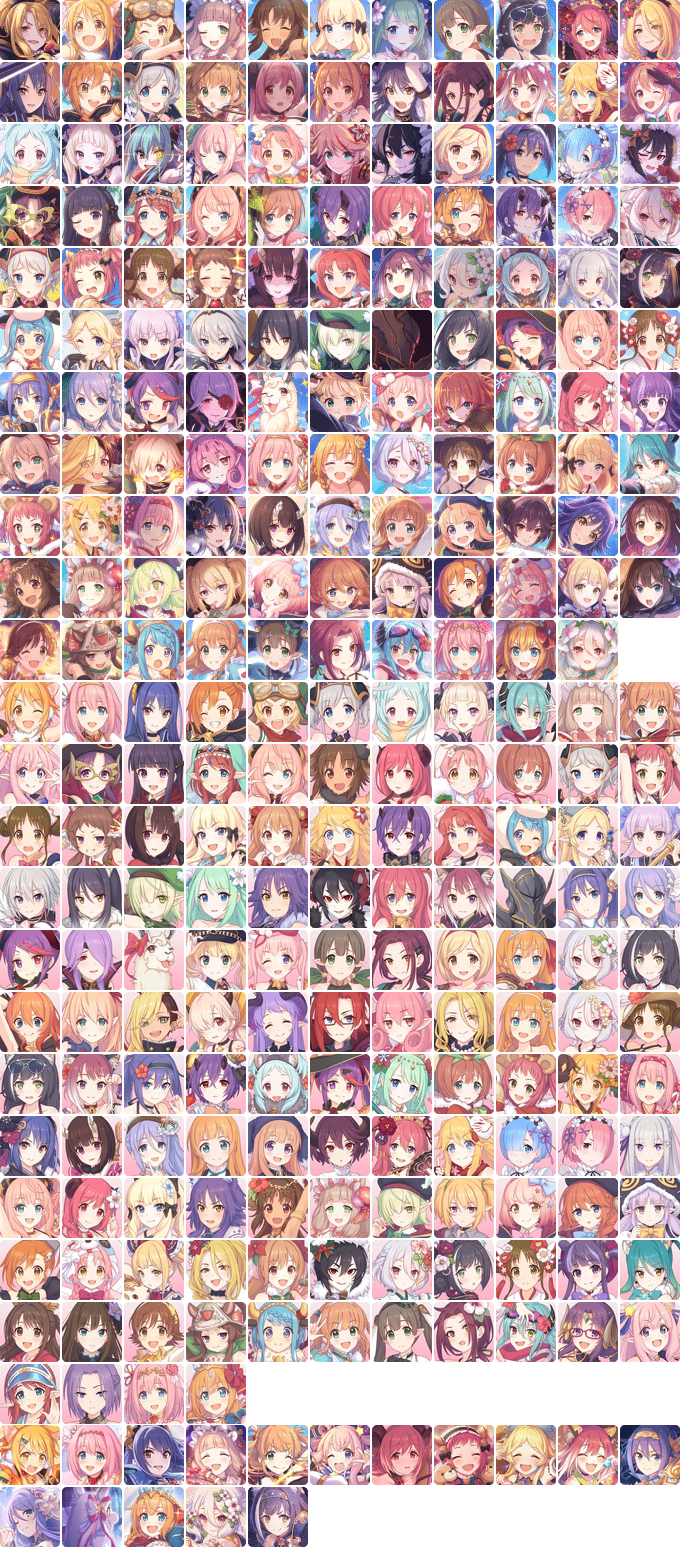
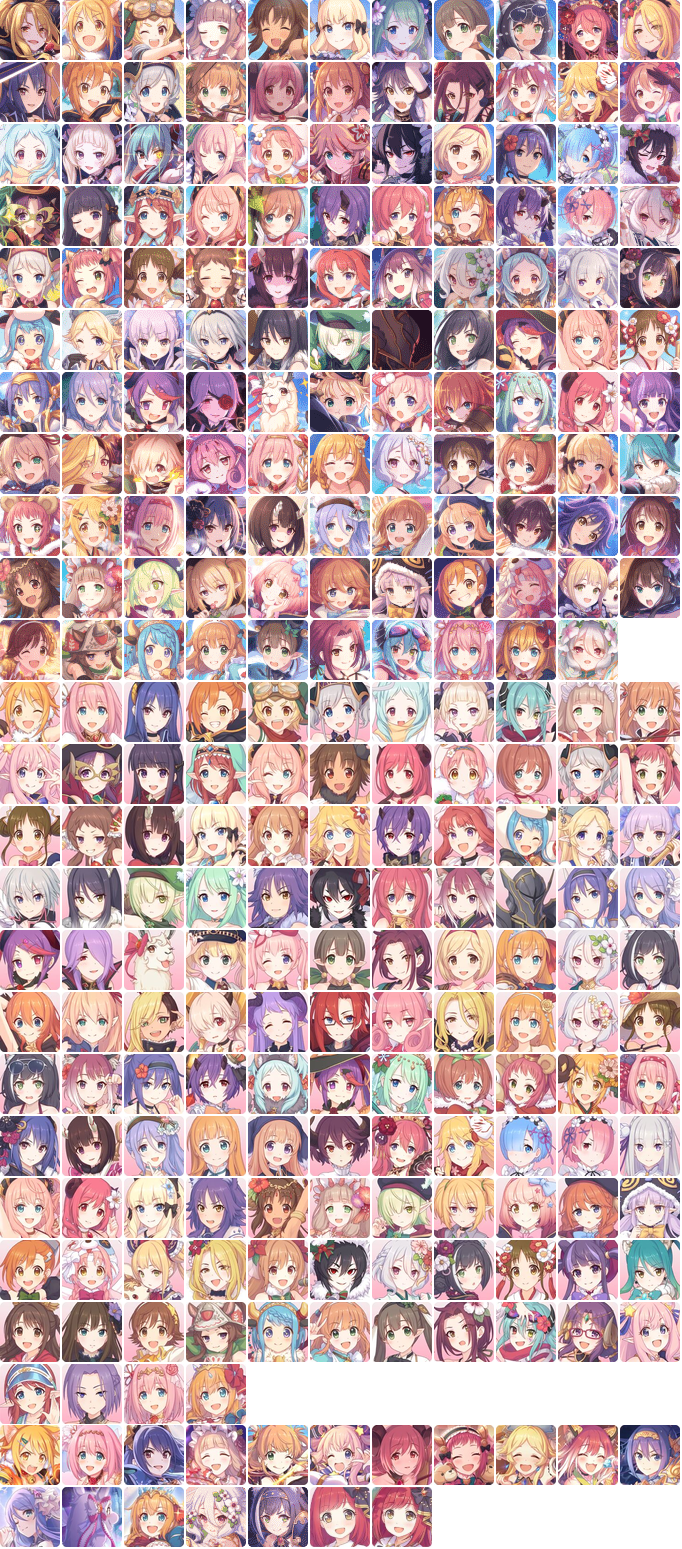
v0.1.4-beta5 1. 添加环奈相关信息。这次应当是最后一次手动添加信息，之后应当提供根据API做OTA功能

Changed region(s): [[0.4311, 0.9606, 0.6466, 1.0]]

diff --git a/main.py b/main.py
@@ -434,7 +434,7 @@ class GUIMainWin(QMainWindow, Ui_PCRJJCAnalyzerGUI):
         super(GUIMainWin, self).__init__(parent)
         self.setupUi(self)
         self.appExceptionHandler = ExceptHookHandler(self, logFile=os.path.join(os.path.expanduser('~'), "PCRJJCAnalyzer", "log.txt"))
-        self.setWindowTitle('PCRJJCAnalyzer-v0.1.4-beta4')
+        self.setWindowTitle('PCRJJCAnalyzer-v0.1.4-beta5')
         self.exclusionList  = [[], [0, 0, 0, 0, 0], [0, 0, 0, 0, 0], [0, 0, 0, 0, 0]]
         self.excludingSolutionIDList = ['','','']
         self.exclusionCheckBoxButtonGroup = QButtonGroup()

diff --git a/data.py b/data.py
@@ -318,8 +318,8 @@ refGrid =[
         {'name': '佩可莉姆', 'id': 1058},
         {'name': '可可萝', 'id': 1059}, 
         {'name': '凯留', 'id': 1060}, 
-        {'name': '无角色', 'id': 1000}, 
-        {'name': '无角色', 'id': 1000}, 
+        {'name': '环奈', 'id': 1701}, 
+        {'name': '环奈', 'id': 1701}, 
         {'name': '无角色', 'id': 1000}, 
         {'name': '无角色', 'id': 1000}, 
         {'name': '无角色', 'id': 1000}, 
